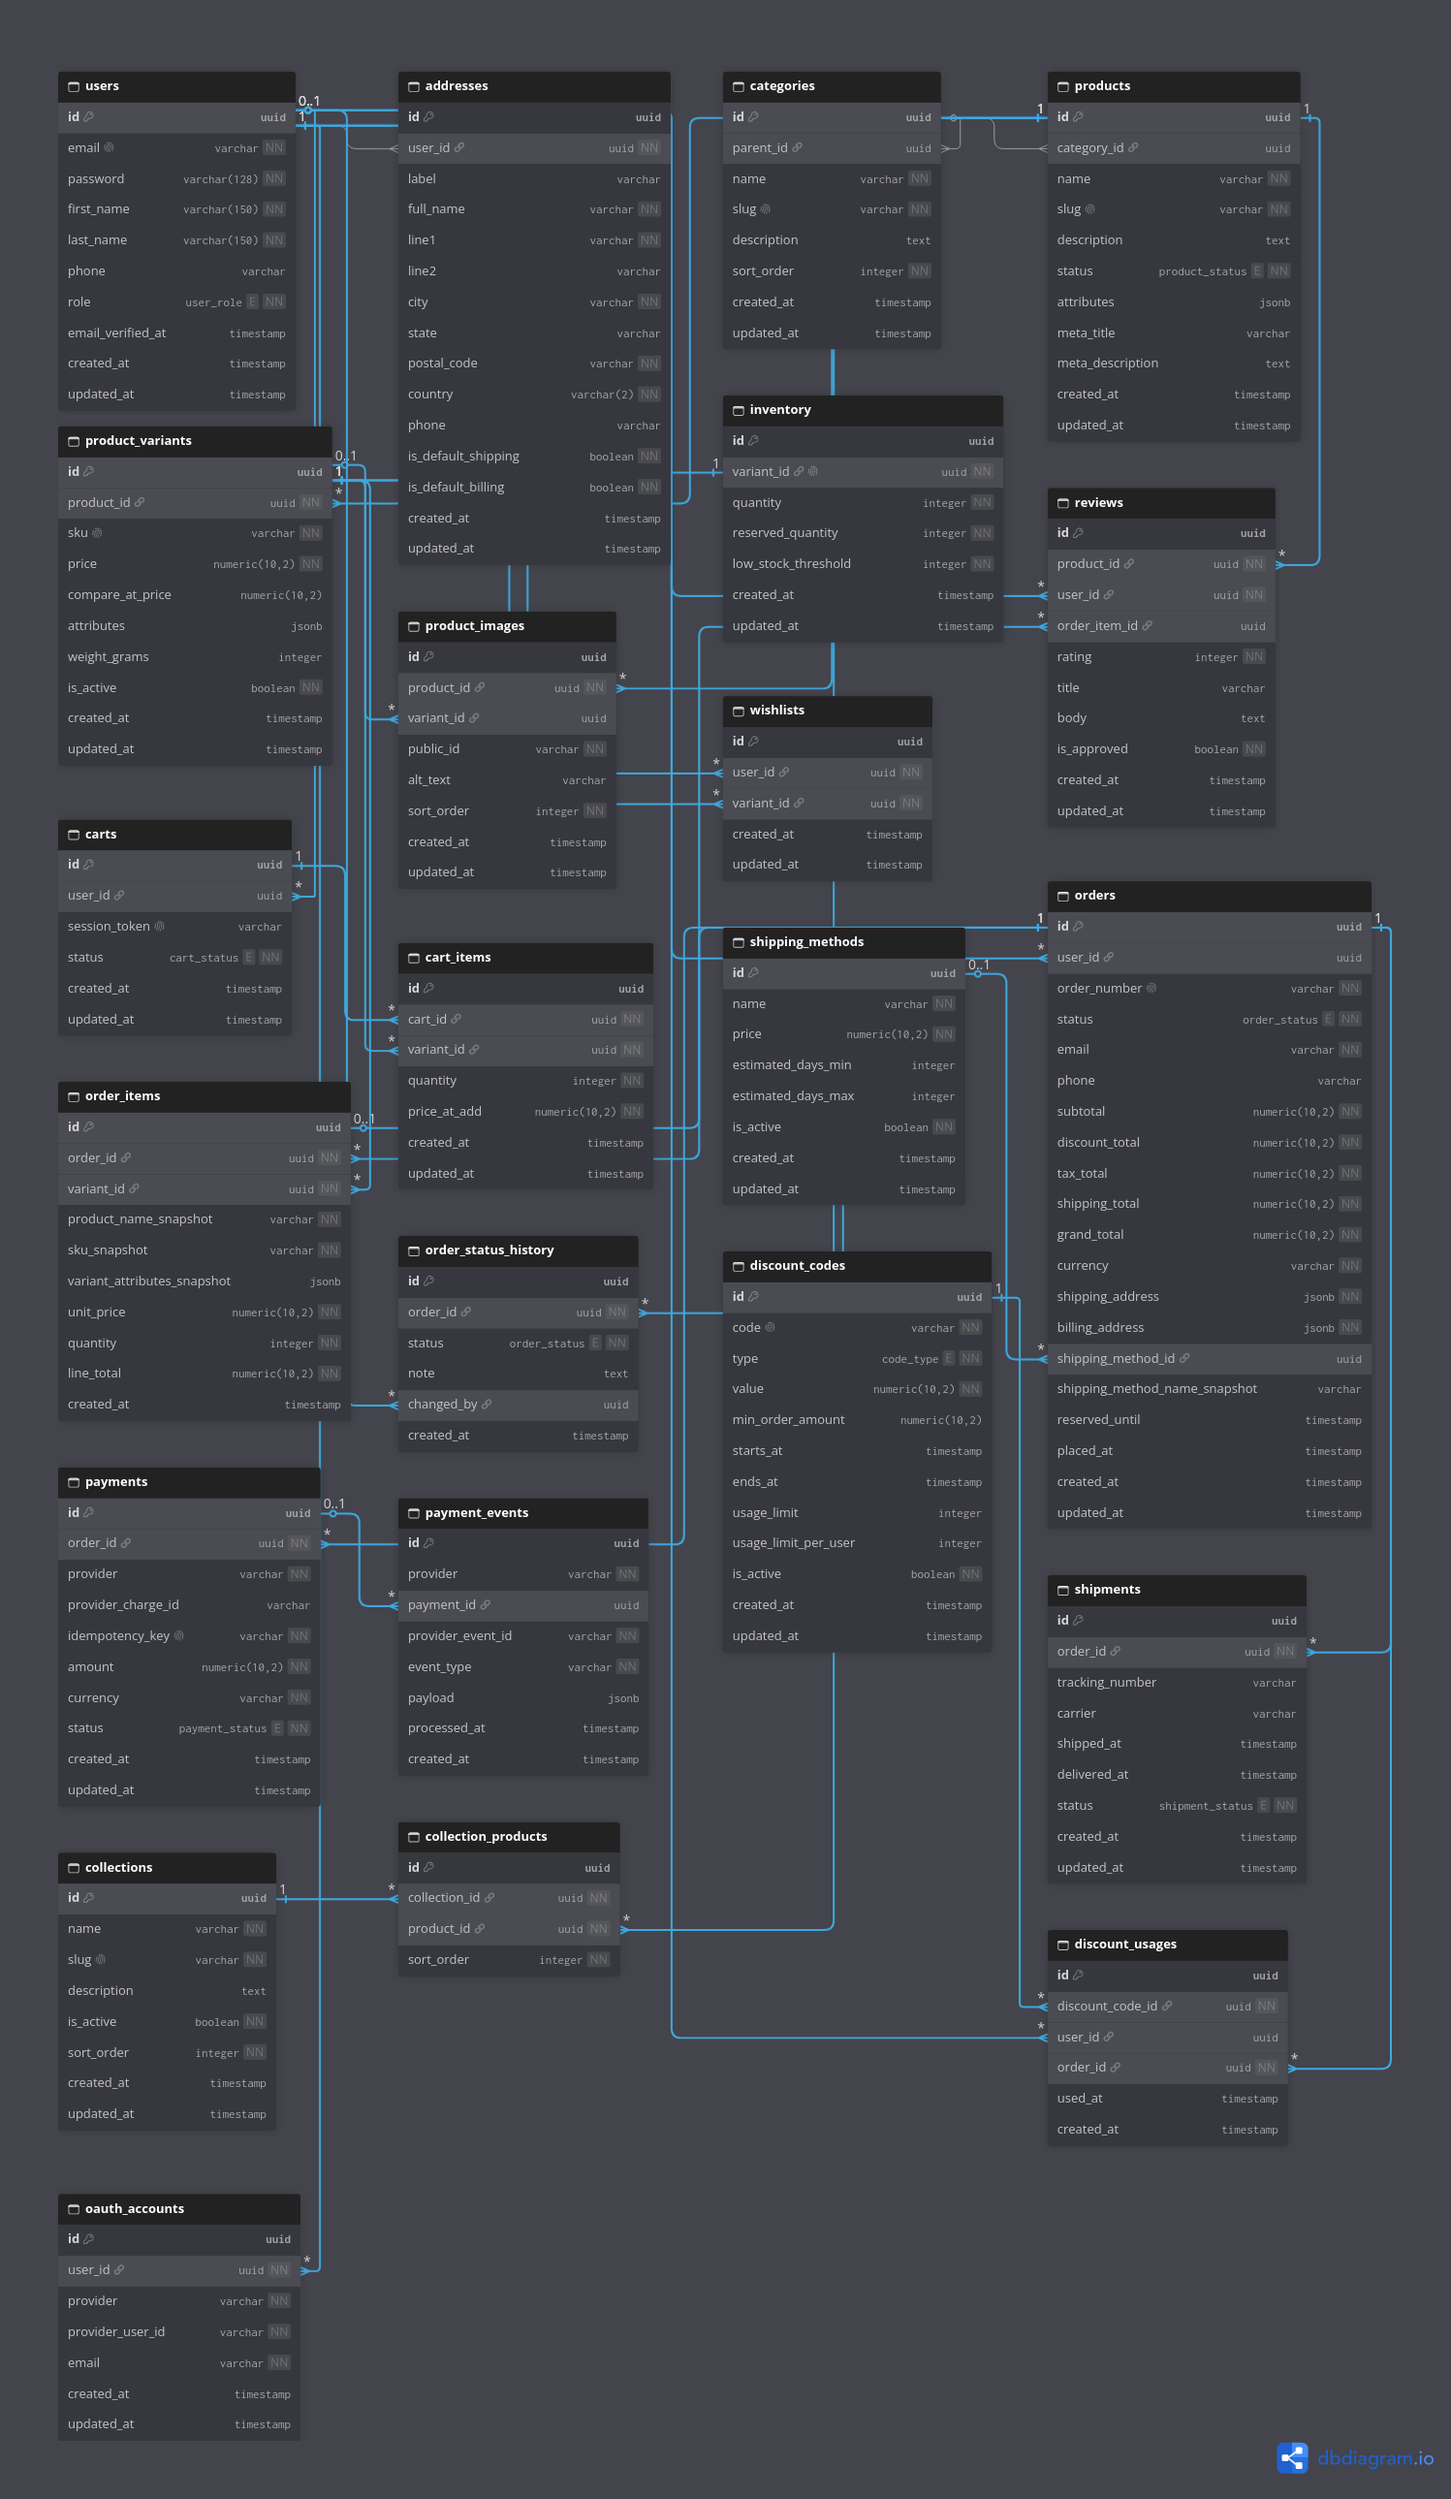
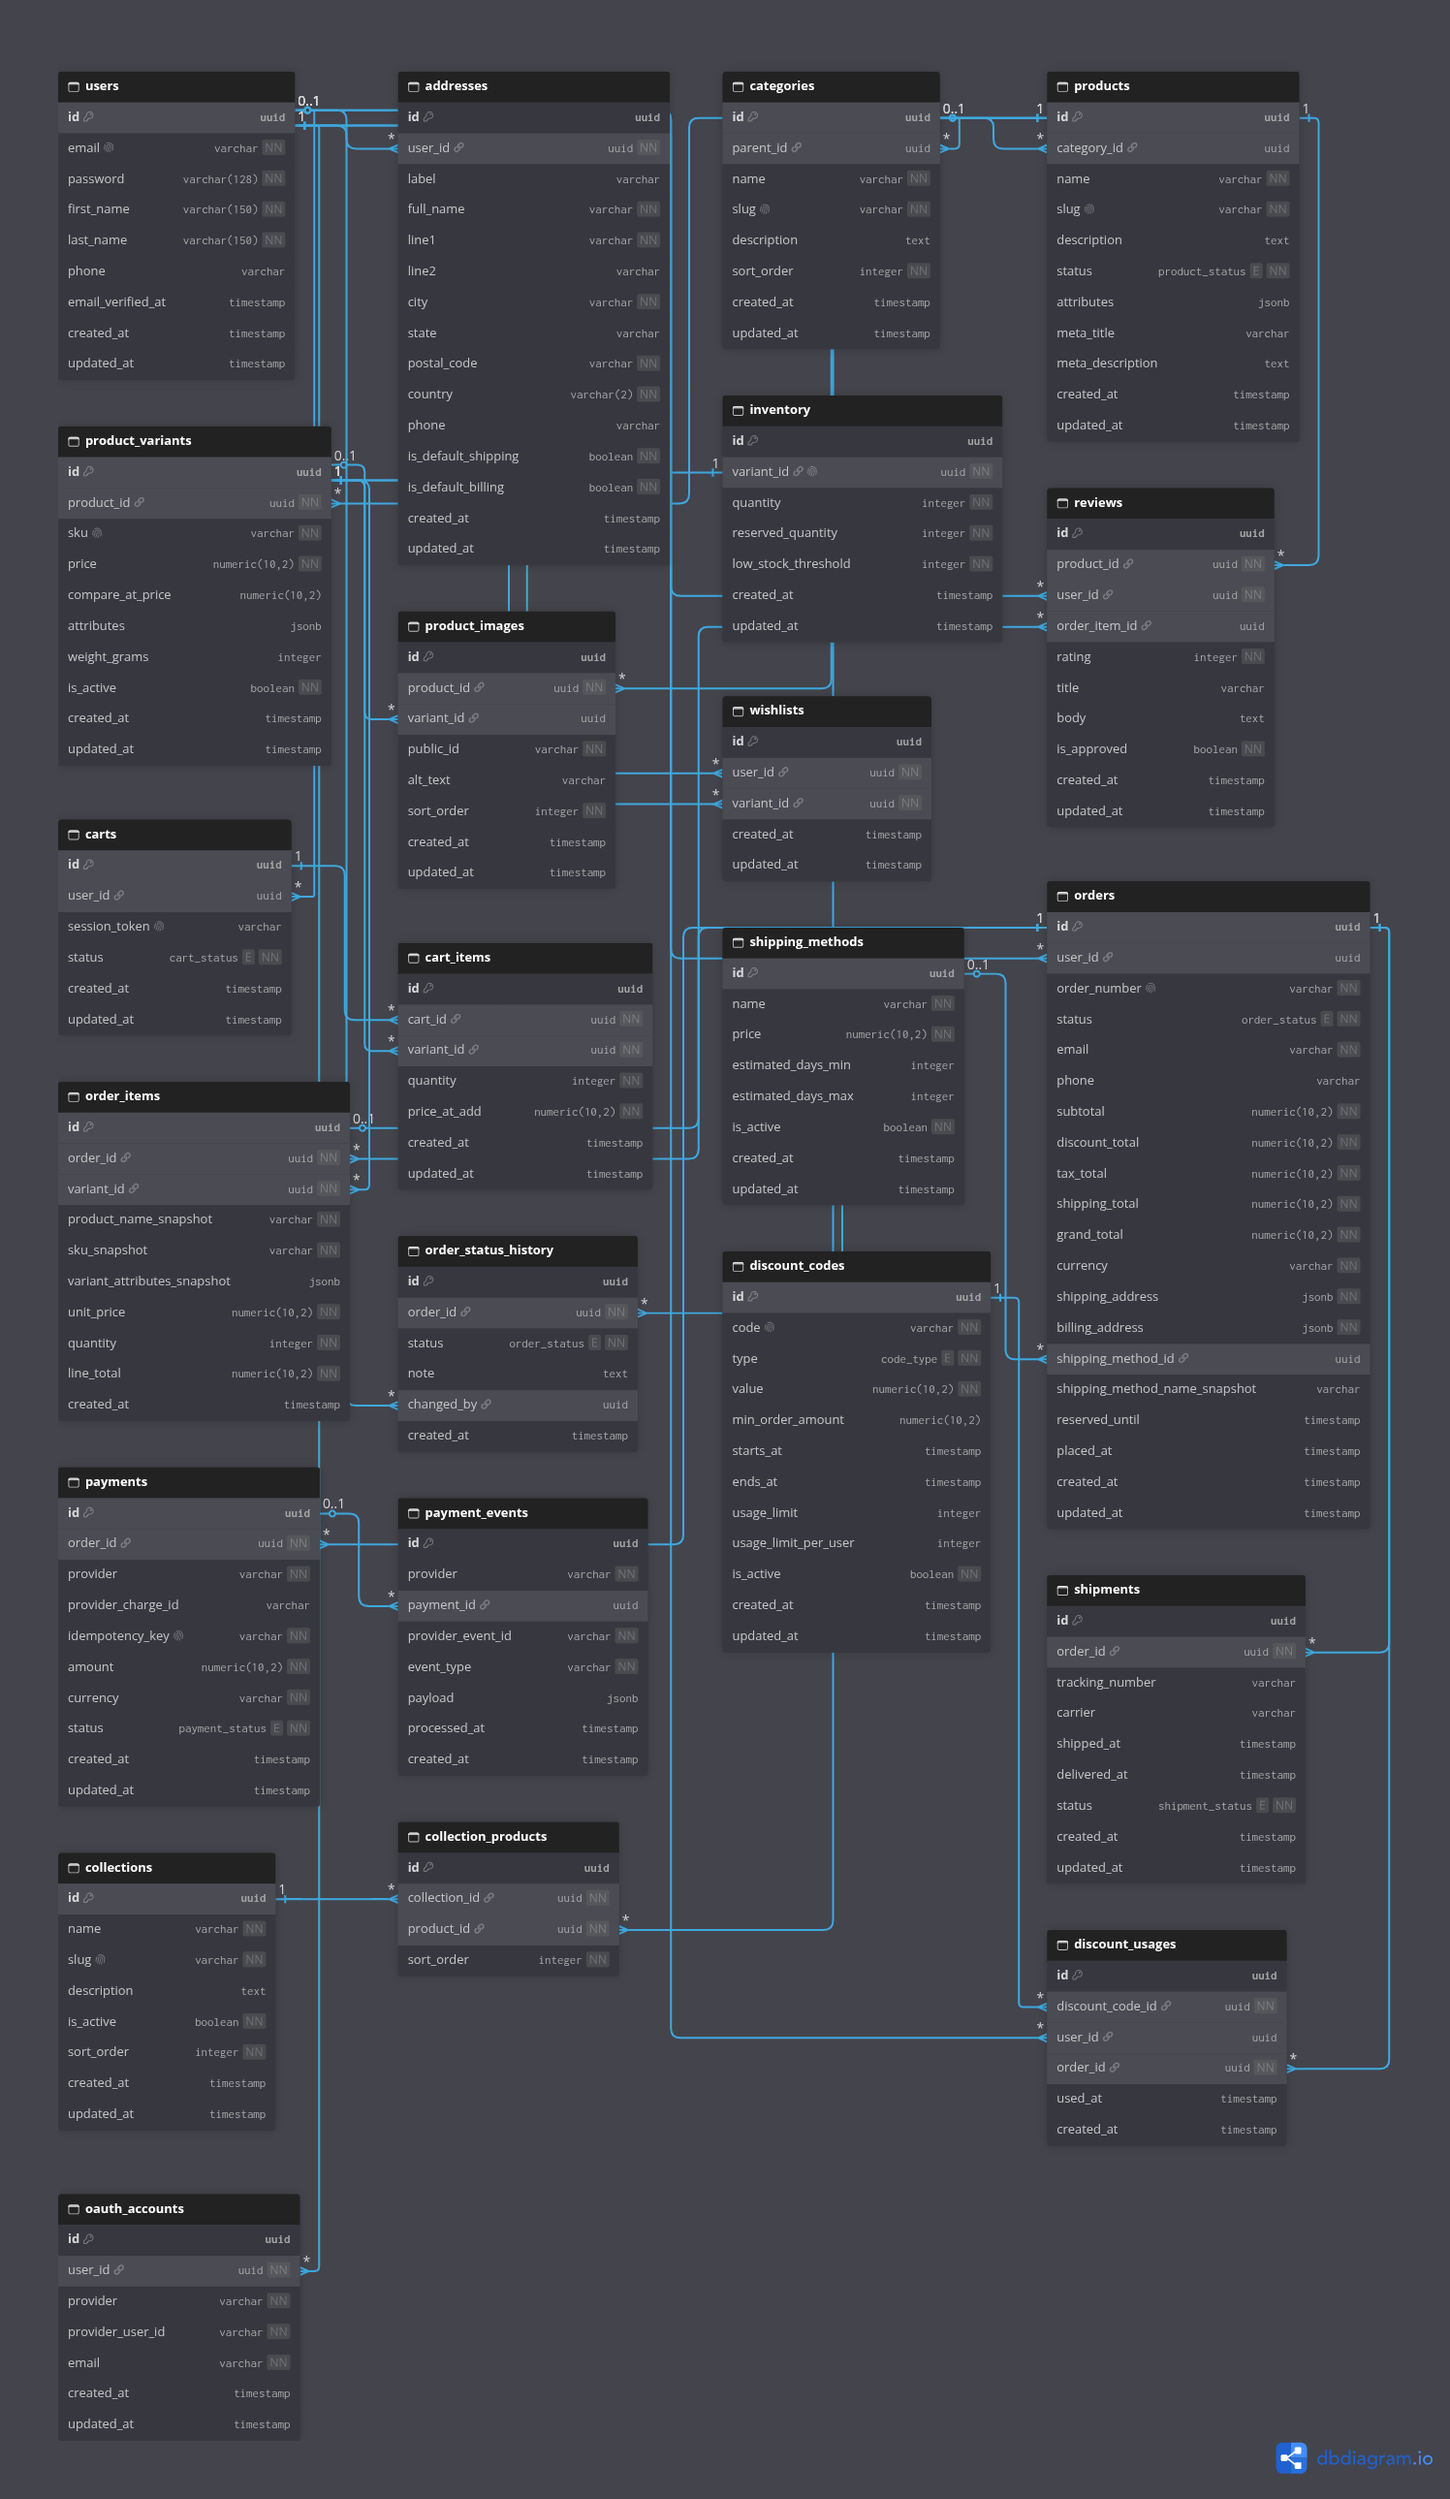
feat: add staff_urls and staff_views

diff --git a/backend/accounts/staff_serializers.py b/backend/accounts/staff_serializers.py
@@ -1,0 +1,49 @@
+from rest_framework import serializers
+from phonenumber_field.serializerfields import PhoneNumberField
+
+from .models import User
+
+
+
+class StaffMeSerializer(serializers.ModelSerializer):
+    groups = serializers.SlugRelatedField(many=True, read_only=True, slug_field="name")
+    permissions = serializers.SerializerMethodField()
+
+    class Meta:
+        model = User
+        fields = ["id", "email", "first_name", "last_name", "is_superuser", "groups", "permissions"]
+        read_only_fields = fields
+
+    def get_permissions(self, obj):
+        return sorted(obj.get_all_permissions())
+
+
+
+class StaffUserListSerializer(serializers.ModelSerializer):
+    class Meta:
+        model = User
+        fields = ["id", "email", "first_name", "last_name", "phone",
+                  "is_staff", "is_active", "email_verified_at", "created_at"]
+        read_only_fields = fields
+
+
+
+class StaffUserDetailSerializer(serializers.ModelSerializer):
+    phone = PhoneNumberField(required=False, allow_blank=True)
+    groups = serializers.SlugRelatedField(many=True, read_only=True, slug_field="name")
+    has_password = serializers.SerializerMethodField()
+    has_google = serializers.SerializerMethodField()
+
+    class Meta:
+        model = User
+        fields = ["id", "email", "first_name", "last_name", "phone",
+                  "is_staff", "is_active", "groups", "email_verified_at",
+                  "has_password", "has_google", "last_login", "created_at", "updated_at"]
+        read_only_fields = ["id", "email", "is_staff", "is_active", "groups",
+                            "email_verified_at", "last_login", "created_at", "updated_at"]
+
+    def get_has_password(self, obj):
+        return obj.has_usable_password()
+
+    def get_has_google(self, obj):
+        return obj.oauth_accounts.exists()

diff --git a/backend/accounts/staff_views.py b/backend/accounts/staff_views.py
@@ -1,0 +1,47 @@
+from django_filters.rest_framework import DjangoFilterBackend
+from rest_framework import generics, viewsets
+from rest_framework.filters import OrderingFilter, SearchFilter
+from rest_framework.permissions import IsAdminUser
+
+from core.permissions import StrictModelPermissions
+
+from .models import User
+from .staff_serializers import (
+    StaffMeSerializer,
+    StaffUserDetailSerializer,
+    StaffUserListSerializer,
+)
+
+
+class StaffMeView(generics.RetrieveAPIView):
+    serializer_class = StaffMeSerializer
+    permission_classes = [IsAdminUser]
+
+    def get_object(self):
+        return self.request.user
+
+
+
+class StaffUserViewSet(viewsets.ModelViewSet):
+    permission_classes = [IsAdminUser, StrictModelPermissions]
+    http_method_names = ["get", "patch", "post"]
+    filter_backends = [DjangoFilterBackend, SearchFilter, OrderingFilter]
+    filterset_fields = ["is_staff", "is_active"]
+    search_fields = ["email", "first_name", "last_name", "phone"]
+    ordering_fields = ["created_at", "email", "last_login"]
+    ordering = ["-created_at"]
+
+    def get_queryset(self):
+        qs = User.objects.prefetch_related("groups")
+        if not self.request.user.is_superuser:
+            qs = qs.filter(is_superuser=False)
+        return qs
+
+    def get_serializer_class(self):
+        if self.action == "list":
+            return StaffUserListSerializer
+        return StaffUserDetailSerializer
+
+    def create(self, request, *args, **kwargs):
+        # users are never created through a plain POST here; only via the invite action
+        return self.http_method_not_allowed(request, *args, **kwargs)

diff --git a/backend/core/permissions.py b/backend/core/permissions.py
@@ -1,0 +1,21 @@
+from rest_framework.permissions import BasePermission, DjangoModelPermissions
+
+
+
+class StrictModelPermissions(DjangoModelPermissions):
+    """DjangoModelPermissions, but reading also requires the view permission."""
+    perms_map = {
+        **DjangoModelPermissions.perms_map,
+        "GET": ["%(app_label)s.view_%(model_name)s"],
+        "HEAD": ["%(app_label)s.view_%(model_name)s"],
+    }
+
+
+
+def require_perm(perm):
+    """Permission class requiring one specific Django permission, e.g. 'accounts.change_user'."""
+    class HasPerm(BasePermission):
+        def has_permission(self, request, view):
+            return request.user.has_perm(perm)
+    return HasPerm
+

diff --git a/backend/core/settings.py b/backend/core/settings.py
@@ -31,6 +31,7 @@ INSTALLED_APPS = [
     'rest_framework',
     "phonenumber_field",
     "rest_framework_simplejwt.token_blacklist",
+    "django_filters",
     'accounts',
 ]
 
@@ -136,9 +137,11 @@ REST_FRAMEWORK = {
         "password_reset": "5/hour",
         "password_change": "5/hour",
         "login": "10/min",
-        "register": "5/hour",
+        "register": "500/hour",
         "account_deletion": "3/hour",
     },
+    "DEFAULT_PAGINATION_CLASS": "rest_framework.pagination.PageNumberPagination",
+    'PAGE_SIZE': 25
 }
 
 AUTH_USER_MODEL = "accounts.User"

diff --git a/backend/accounts/views.py b/backend/accounts/views.py
@@ -57,6 +57,12 @@ class MeView(generics.RetrieveUpdateDestroyAPIView):
                 status=status.HTTP_400_BAD_REQUEST,
         )
 
+        if user.is_staff:
+            return Response(
+                {"detail": "Staff accounts are managed by an administrator."},
+                status=status.HTTP_403_FORBIDDEN,
+            )
+
         serializer = DeleteAccountSerializer(data=request.data, context={"request": request})
         serializer.is_valid(raise_exception=True)
 

diff --git a/backend/accounts/staff_urls.py b/backend/accounts/staff_urls.py
@@ -1,0 +1,11 @@
+from django.urls import path
+from rest_framework.routers import DefaultRouter
+
+from .staff_views import StaffMeView, StaffUserViewSet
+
+router = DefaultRouter()
+router.register("users", StaffUserViewSet, basename="staff-user")
+
+urlpatterns = [
+    path("me/", StaffMeView.as_view(), name="staff_me"),
+] + router.urls

diff --git a/backend/core/urls.py b/backend/core/urls.py
@@ -4,5 +4,6 @@ from django.urls import path, include
 
 urlpatterns = [
     path('admin/', admin.site.urls),
-    path('api/auth/', include('accounts.urls'))
+    path('api/auth/', include('accounts.urls')),
+    path('api/staff/', include("accounts.staff_urls"))
 ]
